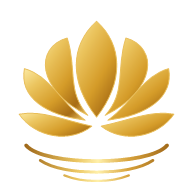
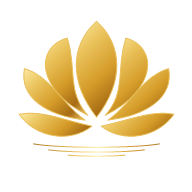
Refine lotus water into thin shallow closely spaced ripples

Changed region(s): [[0.125, 0.7188, 0.875, 0.9688]]

diff --git a/index.html b/index.html
@@ -3,12 +3,12 @@
   <head>
     <meta charset="UTF-8" />
     <meta name="viewport" content="width=device-width, initial-scale=1.0" />
-    <link rel="icon" type="image/svg+xml" href="/assets/brand/lotus-flower.svg?v=lotus-water5" />
-    <link rel="icon" href="/favicon.ico?v=lotus-water5" sizes="any" />
-    <link rel="icon" type="image/png" sizes="32x32" href="/favicon-32x32.png?v=lotus-water5" />
-    <link rel="icon" type="image/png" sizes="16x16" href="/favicon-16x16.png?v=lotus-water5" />
-    <link rel="apple-touch-icon" sizes="180x180" href="/apple-touch-icon.png?v=lotus-water5" />
-    <link rel="manifest" href="/site.webmanifest?v=lotus-water5" />
+    <link rel="icon" type="image/svg+xml" href="/assets/brand/lotus-flower.svg?v=lotus-ripples6" />
+    <link rel="icon" href="/favicon.ico?v=lotus-ripples6" sizes="any" />
+    <link rel="icon" type="image/png" sizes="32x32" href="/favicon-32x32.png?v=lotus-ripples6" />
+    <link rel="icon" type="image/png" sizes="16x16" href="/favicon-16x16.png?v=lotus-ripples6" />
+    <link rel="apple-touch-icon" sizes="180x180" href="/apple-touch-icon.png?v=lotus-ripples6" />
+    <link rel="manifest" href="/site.webmanifest?v=lotus-ripples6" />
     <meta name="theme-color" content="#174c43" />
     <title>Lotus Rental 22 — Premium Scooter Rental Labuan Bajo</title>
     <meta name="description" content="Explore Labuan Bajo with premium scooter rentals from Lotus Rental 22. Airport & hotel delivery from Rp 20.000 per scooter, zero security deposit, well-maintained bikes, 2 helmets & phone holder included." />

diff --git a/src/components/LotusLogoCrest.tsx b/src/components/LotusLogoCrest.tsx
@@ -6,7 +6,7 @@ interface LotusLogoCrestProps {
 }
 export const LotusLogoCrest = ({className = '', size = 'md', showTextLabel = true}: LotusLogoCrestProps) => (
   <span className={`lotus-logo lotus-logo--${size} ${className}`}>
-    <img src="/assets/brand/lotus-flower.svg?v=lotus-water5" alt="Lotus Rental 22 — Labuan Bajo" width="256" height="256" />
+    <img src="/assets/brand/lotus-flower.svg?v=lotus-ripples6" alt="Lotus Rental 22 — Labuan Bajo" width="256" height="256" />
     {showTextLabel && <span className="lotus-logo-label">LOTUS RENTAL 22<small>LABUAN BAJO</small></span>}
   </span>
 );
